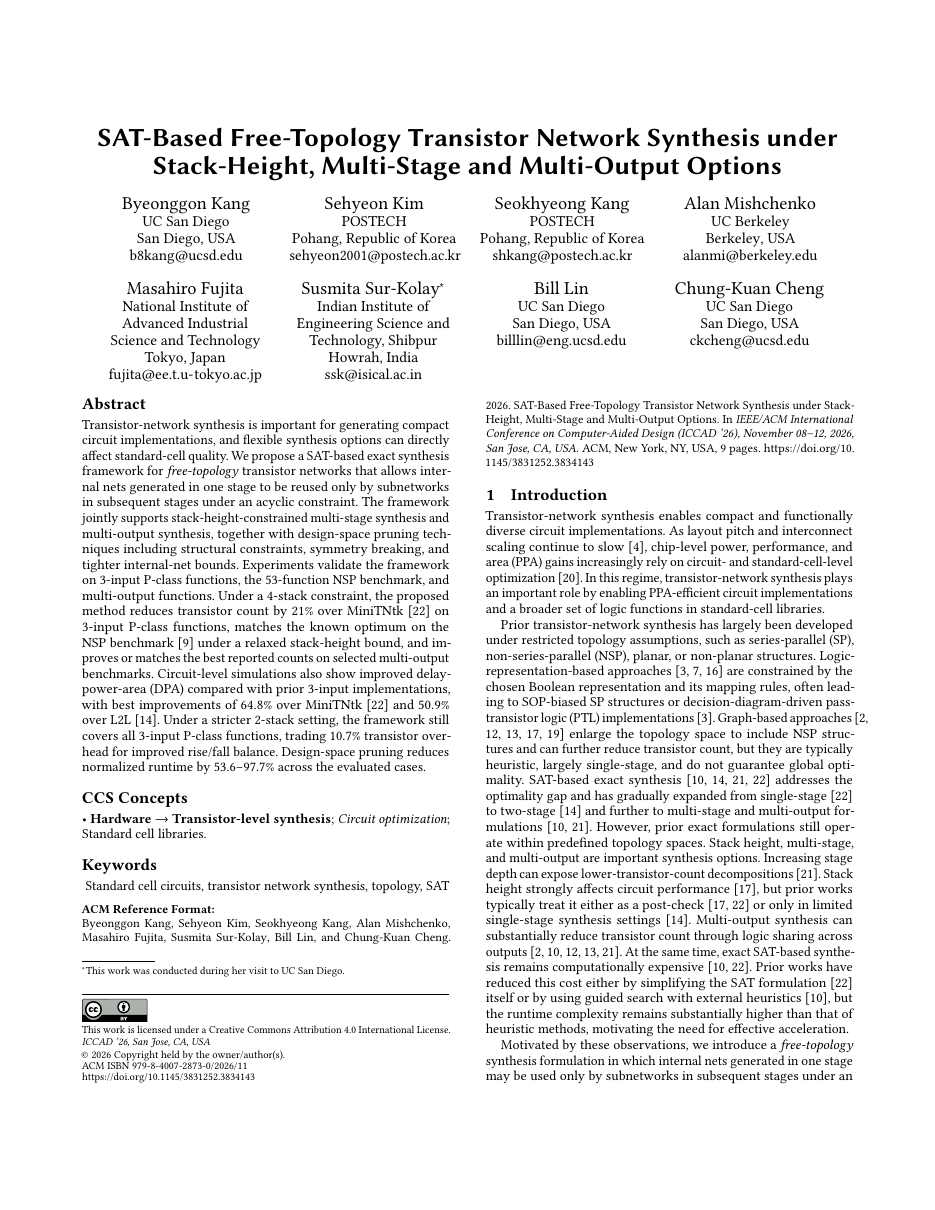
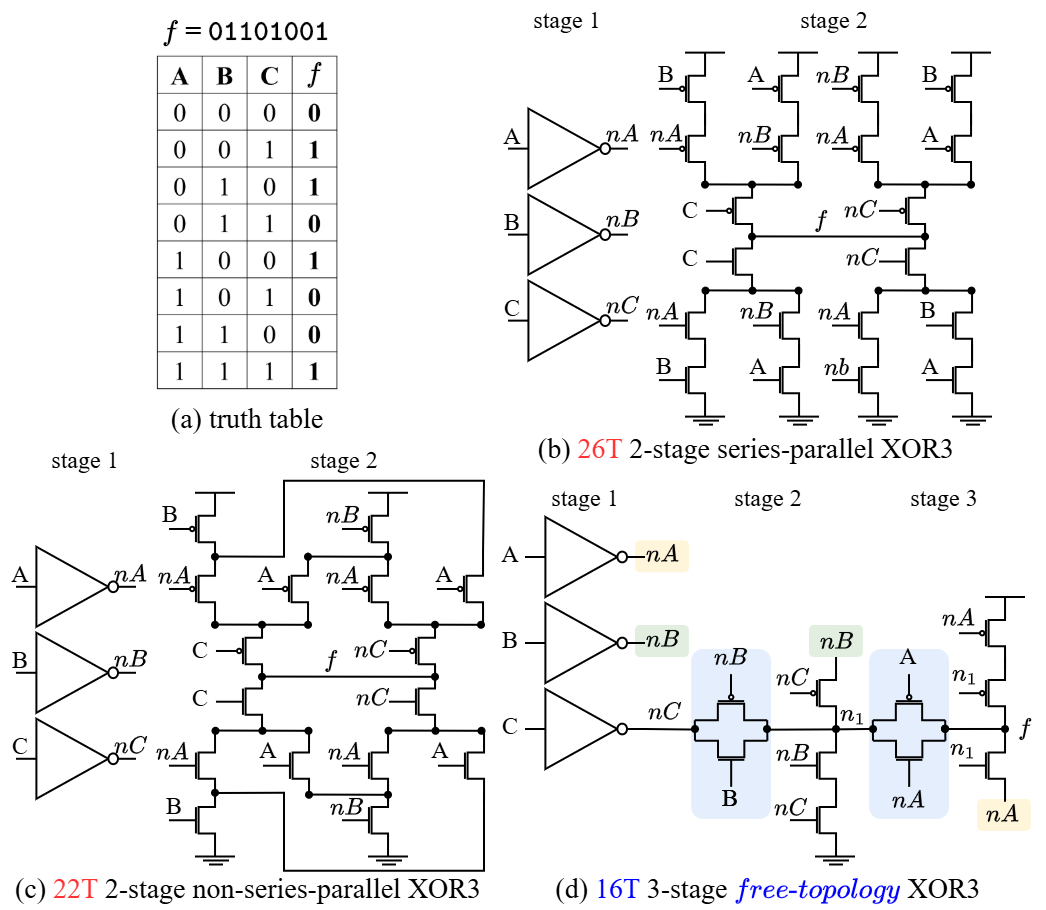
update

Changed region(s): [[0.0, 0.0, 0.9925, 1.0], [0.7754, 0.0, 0.8374, 0.0308], [0.4963, 0.0, 0.5583, 0.0308]]

diff --git a/docs/index.html b/docs/index.html
@@ -153,6 +153,10 @@
 
     .lead { max-width: 780px; margin: 0; font-size: 1.08rem; }
 
+    .abstract { max-width: 780px; }
+    .abstract p { margin: 0 0 1em; }
+    .abstract p:last-child { margin-bottom: 0; }
+
     .artifact-grid {
       display: grid;
       grid-template-columns: repeat(2, minmax(0, 1fr));
@@ -222,9 +226,11 @@
 
   <main>
     <section>
-      <div class="wrap">
-        <h2>Overview</h2>
-        <p class="lead">This work studies SAT-based synthesis of free-topology transistor networks under configurable stack-height, multi-stage, and multi-output options. This release preserves the generated circuits, simulation decks, and selected synthesis results associated with the paper; the complete synthesis implementation is not included.</p>
+      <div class="wrap abstract">
+        <h2>Abstract</h2>
+        <p>Transistor-network synthesis is important for generating compact circuit implementations, and flexible synthesis options can directly affect standard-cell quality.</p>
+        <p>We propose a SAT-based exact synthesis framework for <em>free-topology</em> transistor networks that allows internal nets generated in one stage to be reused only by subnetworks in subsequent stages under an acyclic constraint. The framework jointly supports stack-height-constrained multi-stage synthesis and multi-output synthesis, together with design-space pruning techniques including structural constraints, symmetry breaking, and tighter internal-net bounds.</p>
+        <p>Experiments validate the framework on 3-input P-class functions, the 53-function NSP benchmark, and multi-output functions. Under a 4-stack constraint, the proposed method reduces transistor count by 21% over MiniTNtk [22] on 3-input P-class functions, matches the known optimum on the NSP benchmark [9] under a relaxed stack-height bound, and improves or matches the best reported counts on selected multi-output benchmarks. Circuit-level simulations also show improved delay-power-area (DPA) compared with prior 3-input implementations, with best improvements of 64.8% over MiniTNtk [22] and 50.9% over L2L [14]. Under a stricter 2-stack setting, the framework still covers all 3-input P-class functions, trading 10.7% transistor overhead for improved rise/fall balance. Design-space pruning reduces normalized runtime by 53.6&ndash;97.7% across the evaluated cases.</p>
       </div>
     </section>
 
@@ -249,7 +255,7 @@
           <a class="button primary" href="FreeTopologyTNS_ICCAD2026.pdf">Open PDF</a>
         </div>
         <a href="FreeTopologyTNS_ICCAD2026.pdf" aria-label="Open the camera-ready paper">
-          <img class="preview" src="paper-preview.png" alt="First page of the ICCAD 2026 paper" width="935" height="1210">
+          <img class="preview" src="paper-preview.png" alt="Comparison of transistor-level XOR3 implementations" width="1046" height="910">
         </a>
       </div>
     </section>

diff --git a/README.md b/README.md
@@ -57,8 +57,6 @@ AGR1.log  AGR2.log  BAR1.log  BAR2.log  FADD.log
 GUR2.log  SPEC.log  STE1.log  STE3.log
 ```
 
-`SPEC.log` records the final 43-transistor, 4-stage SPEC result under a maximum stack height of four. Its four outputs were checked against their target truth tables with the switch-level functionality checker.
-
 ### `docs/`
 
 Source files for the GitHub Pages project page and a public copy of the camera-ready paper.
